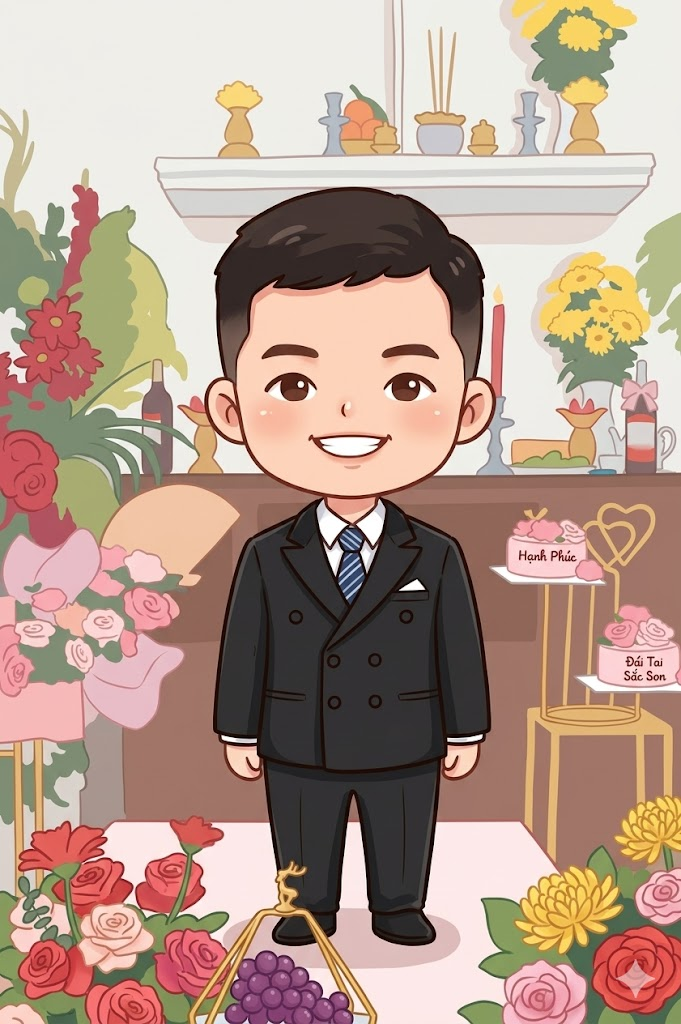
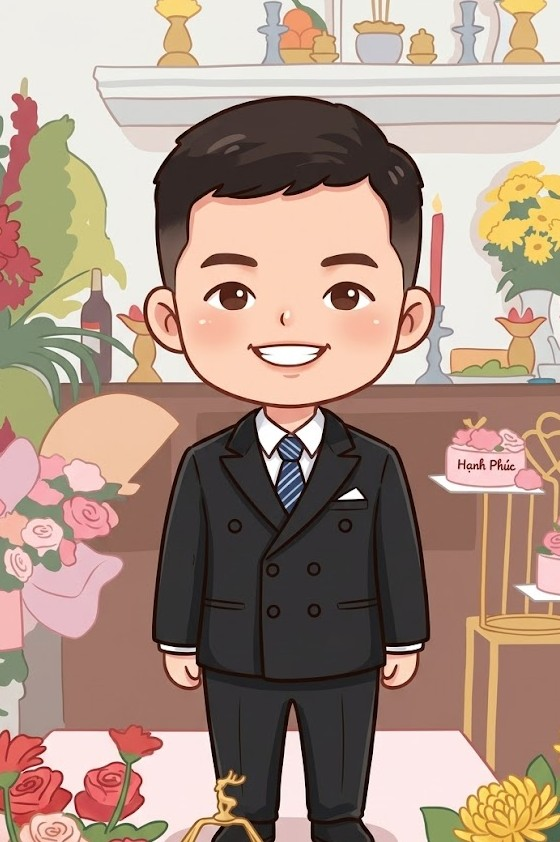
font size

diff --git a/css/style.css b/css/style.css
@@ -69,7 +69,7 @@ body {
 .double-happiness-symbol {
     font-family: 'Playfair Display', 'Georgia', serif;
     
-    font-size: 40px;         /* Tăng nhẹ kích thước để nét chữ thư pháp nhìn bề thế */
+    font-size: clamp(32px, 8vw, 42px);
     color: #b31010;          /* Giữ màu đỏ trầu hoàng gia */
     font-weight: 900;        /* Đẩy độ dày lên mức tối đa để chữ đậm đà, sắc nét */
     line-height: 1;